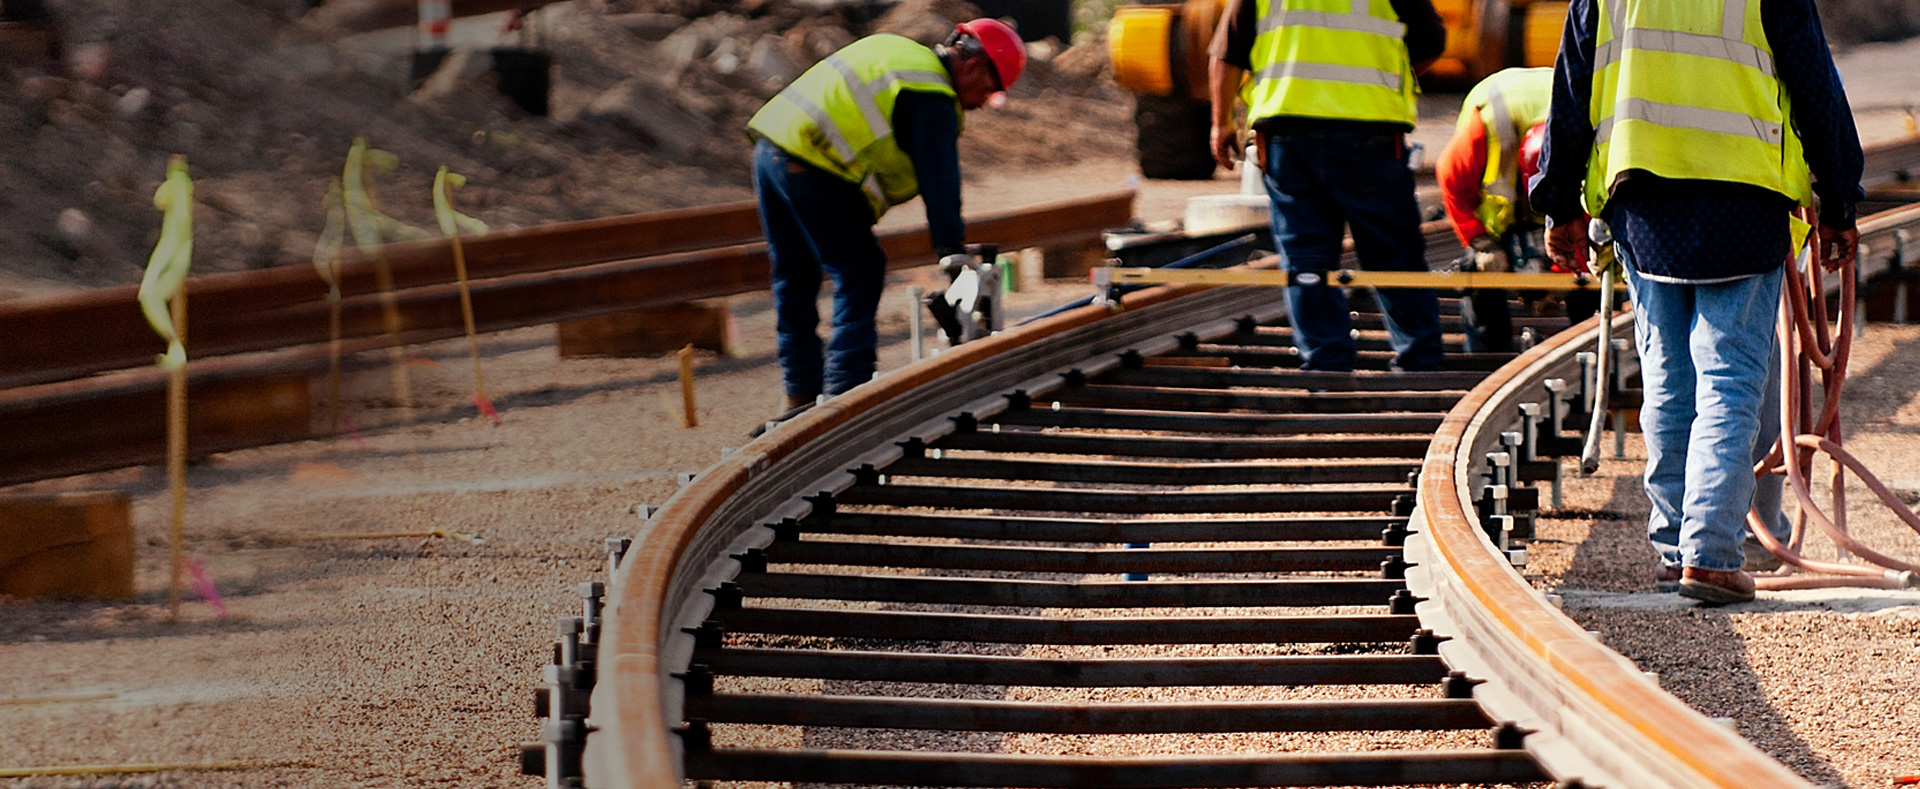
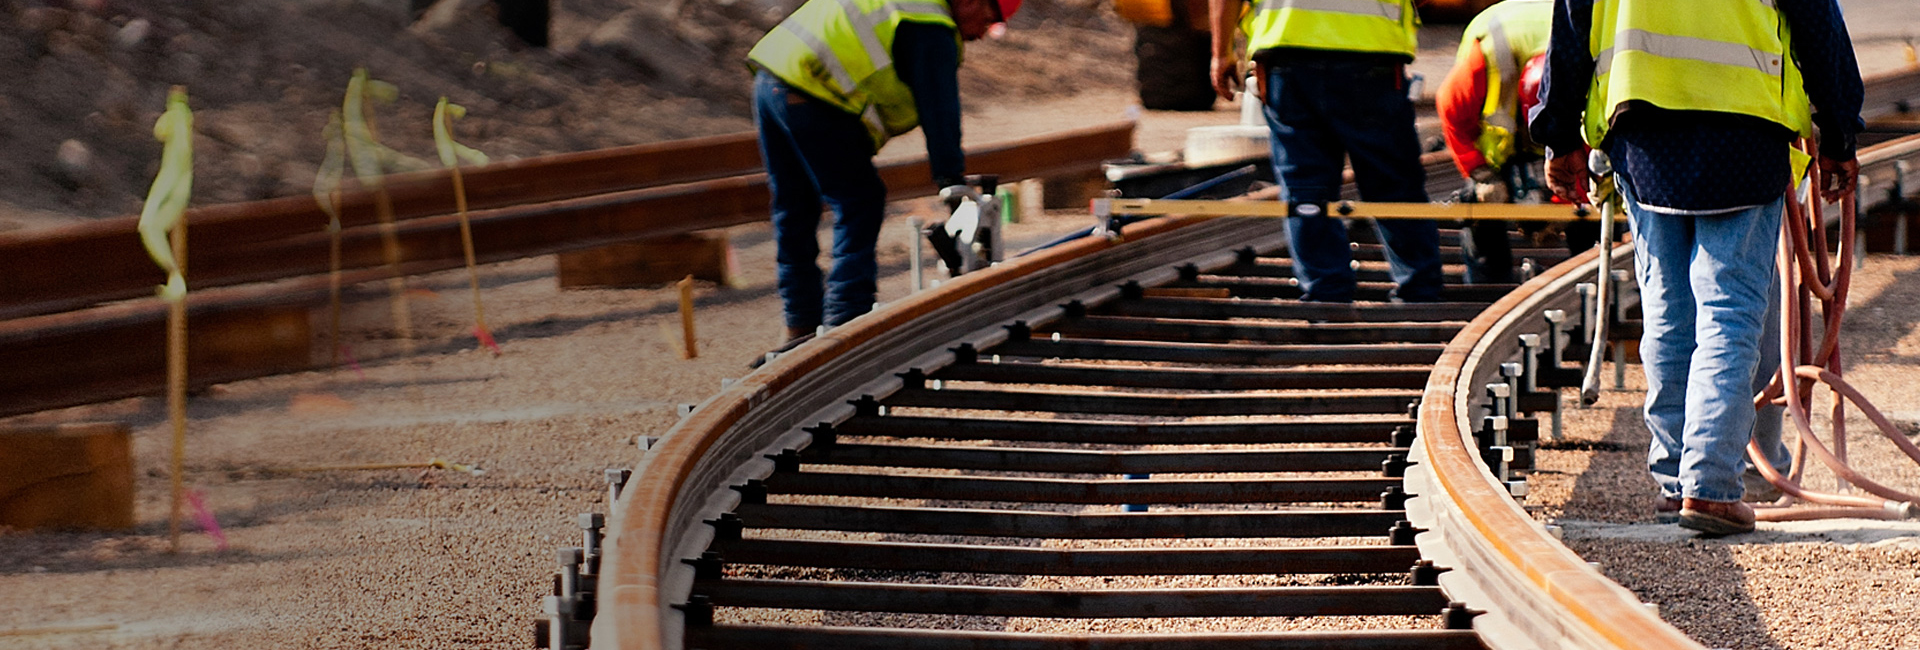
updates

diff --git a/sites/takamul/html/index.html b/sites/takamul/html/index.html
@@ -44,15 +44,15 @@
   </header>
   <div class="banner-section">
     <div id="full-slider-wrapper">
-      <div id="homeslider" style="width:100%;height:789px;">
+      <div id="homeslider" style="width:100%;height:650px;">
        <!--Slider-1-->
        <div class="ls-slide" data-ls="slidedelay:6000;transition2d:5;"> <img src="images/ban.jpg" class="ls-bg" alt="Slide background"/> 
-        <p class="ls-l sub-head" style="top:200px;left:5px;font-size:50px;line-height:55px;color:#fff;font-weight:bold; width:50%;white-space: nowrap;" data-ls="offsetxin:-100;durationin:2500;easingin:easeOutBack;skewxin:0;offsetxout:100;durationout:200;">We always surpass <br/>expectations of our clients </p>
-        <p class="ls-l sub-text" style="top:320px;left:5px;font-size:20px;color:#fff;line-height:30px; width:35%;" data-ls="offsetxin:-100;durationin:2500;easingin:easeOutBack;skewxin:0;offsetxout:100;durationout:200;">We do help our clients to transform their project ideas into tangible investments. </p>
+        <p class="ls-l sub-head" style="top:150px;left:5px;font-size:75px;line-height:75px;color:#fff;font-weight:bold; width:45%;" data-ls="offsetxin:-100;durationin:2500;easingin:easeOutBack;skewxin:0;offsetxout:100;durationout:200;">We always surpass expectations of our clients </p>
+        
       </div>
       <!--Slider-2-->
       <div class="ls-slide" data-ls="slidedelay:6000;transition2d:5;"> <img src="images/ban3.jpg" class="ls-bg" alt="Slide background"/> 
-       <img class="ls-l sub-head" style="top:200px;left:200px;white-space: nowrap;width:800px !important;height:auto;" data-ls="offsetxin:-100;durationin:3000; easingin:easeOutBack;skewxin:0;offsetxout:100;durationout:200;"  src="images/ban-txt2.png" alt="" /> 
+       <img class="ls-l sub-head" style="top:120px;left:200px;white-space: nowrap;width:800px !important;height:auto;" data-ls="offsetxin:-100;durationin:3000; easingin:easeOutBack;skewxin:0;offsetxout:100;durationout:200;"  src="images/ban-txt2.png" alt="" /> 
      </div>
      
      <!--Slider-3
@@ -71,7 +71,15 @@
 </div>
 </div>
 
+<div class="our-services clearfix">
+  <div class="container">
 
+    <p>Since its establishment in 2011, Takamul Project Management has grown into a leading PM/CM (Project Management/ Construction Management) company in the Kingdom of Saudi Arabia.</p>
+    <p>We offer full innovative and tailored project management solutions to suit each of our client's needs. We serve clients from among corporate, governmental and private sectors across various industries to optimize the use of their resources by carefully managing different stages of their projects starting from the feasibility study, to master planning, design, procurement and construction all the way to commissioning and project close out.</p>
+    <p>Takamul employs highly qualified project management professionals, implements best project management practices and apply lessons learned from previous projects in KSA to deliver projects On-Time, within Budget and Required Quality.
+    </p>
+  </div>
+</div>
 <!--Footer-->
 <div class="footer-section">
   <div class="container">

diff --git a/sites/takamul/products.html b/sites/takamul/products.html
@@ -1,0 +1,20 @@
+<!DOCTYPE html>
+<html>
+<head>
+<title>Systems 
+Distinction 
+Company</title>
+</head>
+<body style="margin:0;padding:0;background:#fff;">
+<div style="position:absolute;top:15px;left:20px;">
+<img src="logo.png" /> 
+</div>
+<div style="position:absolute;top:15px;right:20px;">
+<img src="menu.png" /> 
+</div>
+<div>
+<img src="pro-banner.jpg" style="width:100%;height:auto;" /> 
+</div>
+<div style="background: url(products.jpg) no-repeat center top;height: 3520px;width: 100%;"></div>
+</body>
+</html>

diff --git a/sites/takamul/html/css/style.css b/sites/takamul/html/css/style.css
@@ -194,6 +194,9 @@ header.header-fixed .logo img {
     z-index: 99;
 
 }
+.our-services p {
+    margin-bottom: 15px;
+}
 .our-ser-left {
     width: 30%;
     float: left;
